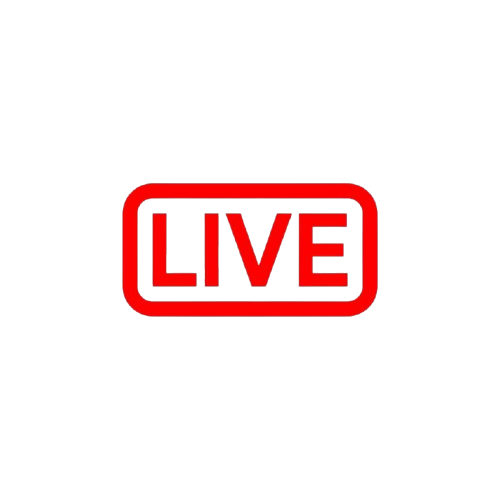
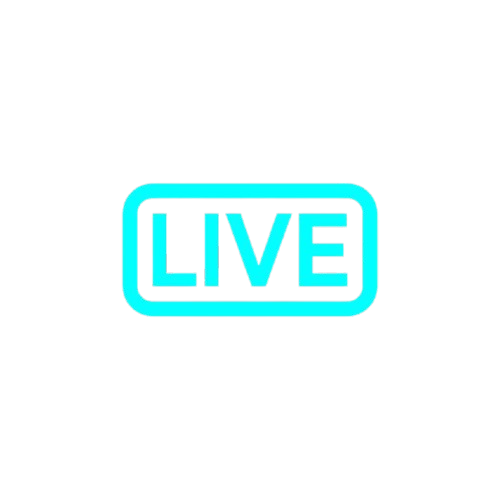
Mobile UI update 3

Changed region(s): [[0.24, 0.36, 0.78, 0.66]]

diff --git a/public/index.html b/public/index.html
@@ -827,7 +827,13 @@
             /* --- NEW MOBILE STYLES ADDED HERE --- */
 
             /* --- Mobile Navigation Bar --- */
-            #mobile-nav {
+            #mobile-nav-live img {
+    /* Allow it to be wider than the other icons */
+    width: 36px;
+    /* Adjust its height for better visual balance */
+    height: 24px;
+}
+			#mobile-nav {
                 display: flex;
                 position: fixed;
                 bottom: 0;
